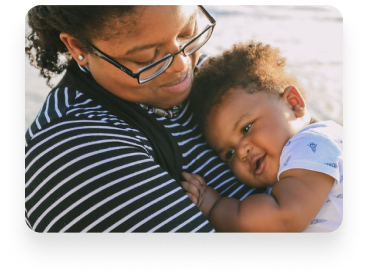
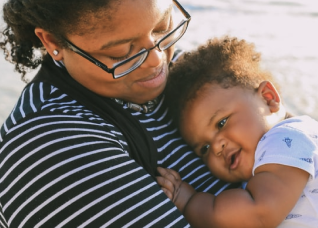
section who-course

diff --git a/public/css/site.css b/public/css/site.css
@@ -72,6 +72,20 @@ main {
 }
 
 #home .btn-quero-matricular {
+  border-color: transparent;
+  font-style: normal;
+  font-weight: bold;
+  font-size: 20px;
+  line-height: 30px;
+  display: flex;
+  align-items: center;
+  text-align: center;
+  text-transform: uppercase;
+
+  /* neutral / basic / white */
+
+  color: #ffffff;
+
   width: 278px;
   height: 62px;
   padding: 16px;
@@ -79,7 +93,6 @@ main {
   box-shadow: 0px 10px 15px rgba(49, 5, 55, 0.1),
     0px 4px 6px rgba(49, 5, 55, 0.05);
   border-radius: 4px;
-  border-color: transparent;
 }
 
 #home .h-t-5 {
@@ -103,6 +116,20 @@ main {
 }
 
 #home .btn-quero-ser-melhor {
+  border-color: transparent;
+  font-style: normal;
+  font-weight: bold;
+  font-size: 20px;
+  line-height: 30px;
+  display: flex;
+  align-items: center;
+  text-align: center;
+  text-transform: uppercase;
+
+  /* neutral / basic / white */
+
+  color: #ffffff;
+
   width: 336px;
   height: 62px;
   left: -9px;
@@ -111,7 +138,6 @@ main {
   box-shadow: 0px 10px 15px rgba(49, 5, 55, 0.1),
     0px 4px 6px rgba(49, 5, 55, 0.05);
   border-radius: 4px;
-  border-color: transparent;
 }
 
 /* About */
@@ -200,19 +226,29 @@ main {
 }
 
 #about .btn-quero-matricular-2 {
+  border-color: transparent;
+  font-style: normal;
+  font-weight: bold;
+  font-size: 20px;
+  line-height: 30px;
+  display: flex;
+  align-items: center;
+  text-align: center;
+  text-transform: uppercase;
+
+  /* neutral / basic / white */
+
+  color: #ffffff;
+
   width: 278px;
   height: 62px;
   background: #9f4079;
   box-shadow: 0px 10px 15px rgba(49, 5, 55, 0.1),
     0px 4px 6px rgba(49, 5, 55, 0.05);
   border-radius: 4px;
-  border-color: transparent;
 }
 
 /* Black Friday */
-
-#black-friday {
-}
 
 #black-friday {
   display: flex;
@@ -267,6 +303,20 @@ main {
 }
 
 #black-friday .btn-comprar-agora {
+  border-color: transparent;
+  font-style: normal;
+  font-weight: bold;
+  font-size: 20px;
+  line-height: 30px;
+  display: flex;
+  align-items: center;
+  text-align: center;
+  text-transform: uppercase;
+
+  /* neutral / basic / white */
+
+  color: #ffffff;
+
   width: 221px;
   height: 62px;
   background: #9f4079;
@@ -286,4 +336,69 @@ main {
 
 #black-friday .pagamentos .pagamentos-content img {
   height: 40px;
+}
+
+/* Who Course */
+
+#who-course {
+  display: flex;
+  flex-direction: column;
+  align-items: center;
+  justify-content: center;
+  padding: 20px;
+}
+
+#who-course img {
+  width: 300px;
+  height: 270px;
+  margin: 10px;
+
+  box-shadow: 0px 20px 25px rgba(0, 0, 0, 0.1),
+    0px 10px 10px rgba(0, 0, 0, 0.04);
+  border-radius: 16px;
+}
+
+#who-course .h-t-1 {
+  font-style: normal;
+  font-weight: bold;
+  font-size: 24px;
+  line-height: 150%;
+  color: #35353b;
+}
+#who-course .h-t-2 {
+  font-style: normal;
+  font-weight: bold;
+  font-size: 16px;
+  line-height: 150%;
+  color: #35353b;
+}
+#who-course .h-t-3 {
+  font-style: normal;
+  font-weight: normal;
+  font-size: 14px;
+  line-height: 150%;
+  color: #35353b;
+}
+
+#who-course .btn-realizar-matricula {
+  border-color: transparent;
+  font-style: normal;
+  font-weight: bold;
+  font-size: 20px;
+  line-height: 30px;
+  display: flex;
+  align-items: center;
+  text-align: center;
+  text-transform: uppercase;
+
+  /* neutral / basic / white */
+
+  color: #ffffff;
+
+  width: 259px;
+  height: 92px;
+  background: #9f4079;
+  box-shadow: 0px 10px 15px rgba(49, 5, 55, 0.1),
+    0px 4px 6px rgba(49, 5, 55, 0.05);
+  border-radius: 4px;
 }

diff --git a/index.html b/index.html
@@ -165,6 +165,54 @@
           </div>
         </div>
       </section>
+
+      <section id="who-course" class="">
+        <img src="./public/images/mom-baby-1.png" alt="" />
+        <p class="h-t-1 mt-2">Basicamente, o que é o curso?</p>
+        <p class="h-t-2 mt-2">
+          Por que o curso Mamãe Completa é diferente?<br />
+          Porque ele não tem nada a ver com os cursos de hospitais ou qualquer
+          outro curso que existe por aí.
+        </p>
+        <p class="h-t-3 mt-4">
+          Não vamos falar apenas sobre um assunto, como por exemplo,
+          amamentação, sono do bebê, ou apenas o que a gestante não pode comer…
+        </p>
+        <p class="h-t-3 mt-4">
+          O Curso oferece toda orientação desde que a mamãe descobre que está
+          grávida até o seu filho ter 6 meses de vida!
+        </p>
+        <p class="h-t-3 mt-4">
+          Foi elaborado por toda nossa equipe de especialistas para orientar a
+          mamãe a ter uma gravidez segura e um filho saudável!
+        </p>
+        <img src="./public/images/mom-baby-2.png" alt="" />
+        <p class="h-t-1 mt-2">Para quem o curso é destinado?</p>
+        <p class="h-t-3 mt-4">
+          O Curso Mamãe Completa é destinado a gestantes e mamães com bebês de
+          até 6 meses. O curso é dividido em 11 módulos, com 120 aulas e 860
+          minutos de orientações! Ele é 100% online e você poderá ver e rever as
+          aulas quantas vezes você quiser para SEMPRE!
+        </p>
+        <button type="button" class="btn btn-primary btn-realizar-matricula my-4">
+          CLIQUE AQUI E REALIZE SUA MATRÍCULA
+        </button>
+        <img src="./public/images/mom-baby-3.png" alt="" />
+        <p class="h-t-1 mt-2">Porque criamos o curso e qual o custo benefício?</p>
+        <p class="h-t-3 mt-4">
+          Sabemos que o custo de ir em 60 consultas para receber todas
+          orientações é muito caro e muitas mamães jamais teriam acesso a 11
+          médicos de alta qualidade. Por isso decidimos criar um curso que passe
+          todas essas orientações a um valor insignificante, menos do que uma
+          consulta com um médico.
+        </p>
+        <p class="h-t-3 mt-4">
+          E o melhor de tudo, a mamãe não precisa sair de casa! Sabemos o quanto
+          é cansativa e corrida a vida de mãe, mas esse curso foi pensado em
+          você! Basta ligar o computador ou até mesmo o celular e assistir todas
+          as aulas quantas vezes você quiser.
+        </p>
+      </section>
     </main>
   </body>
   <script
